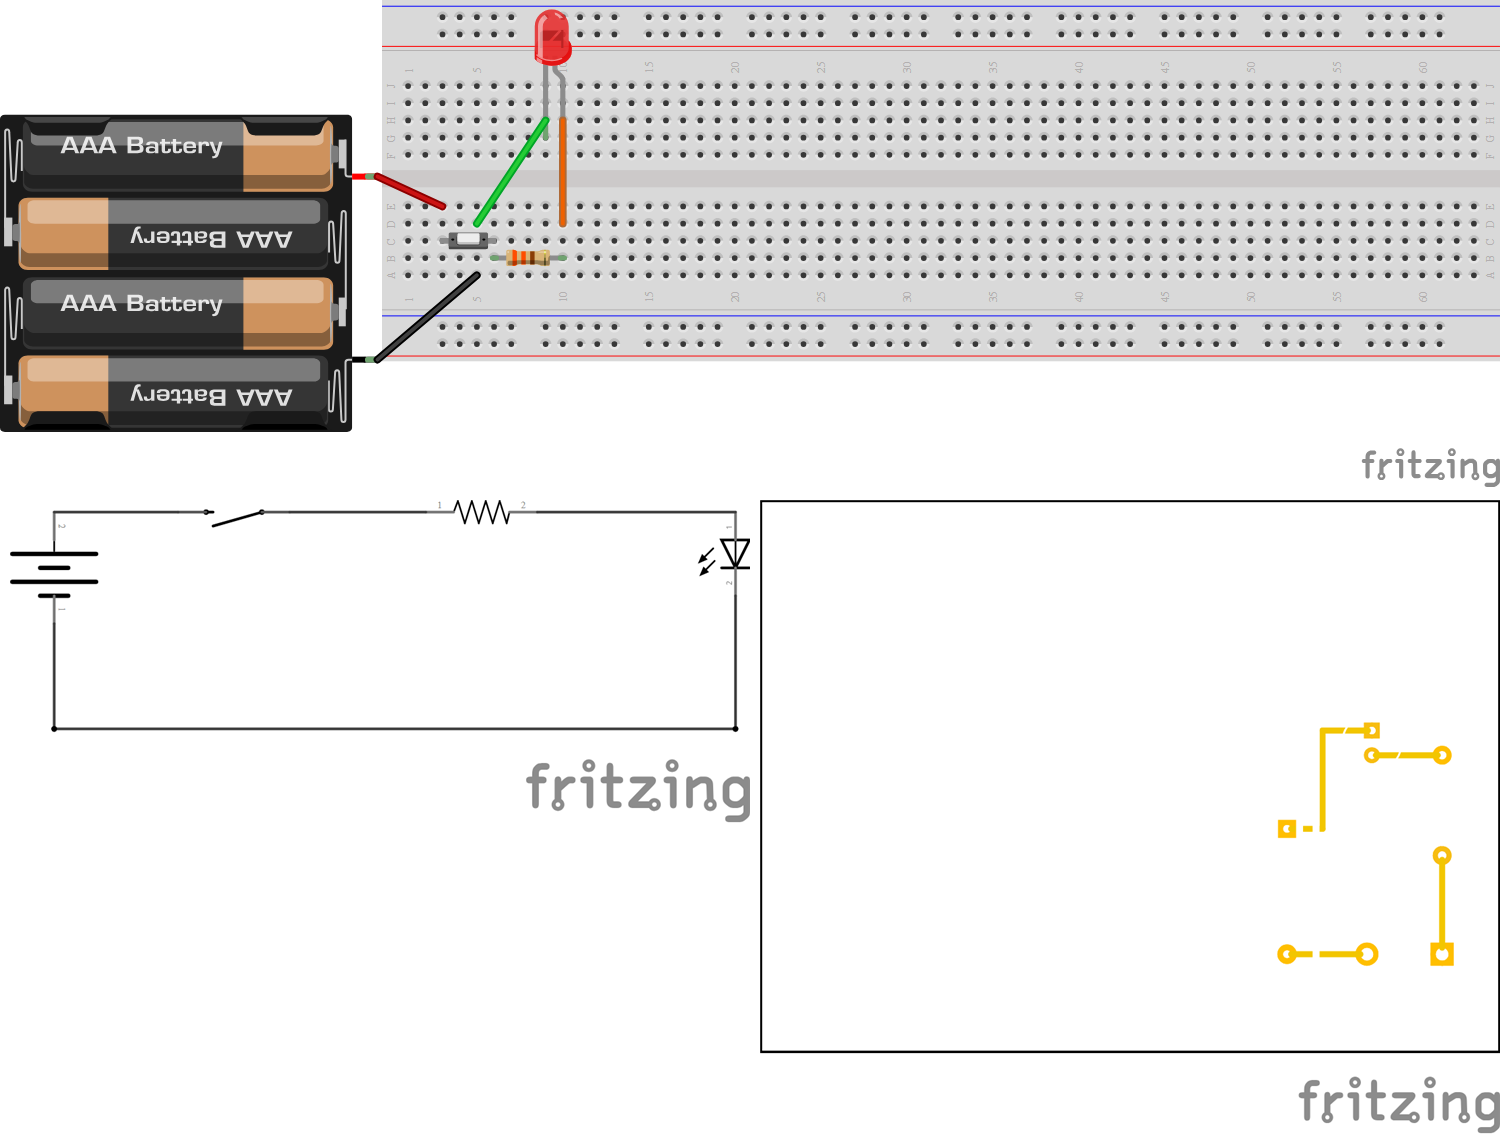
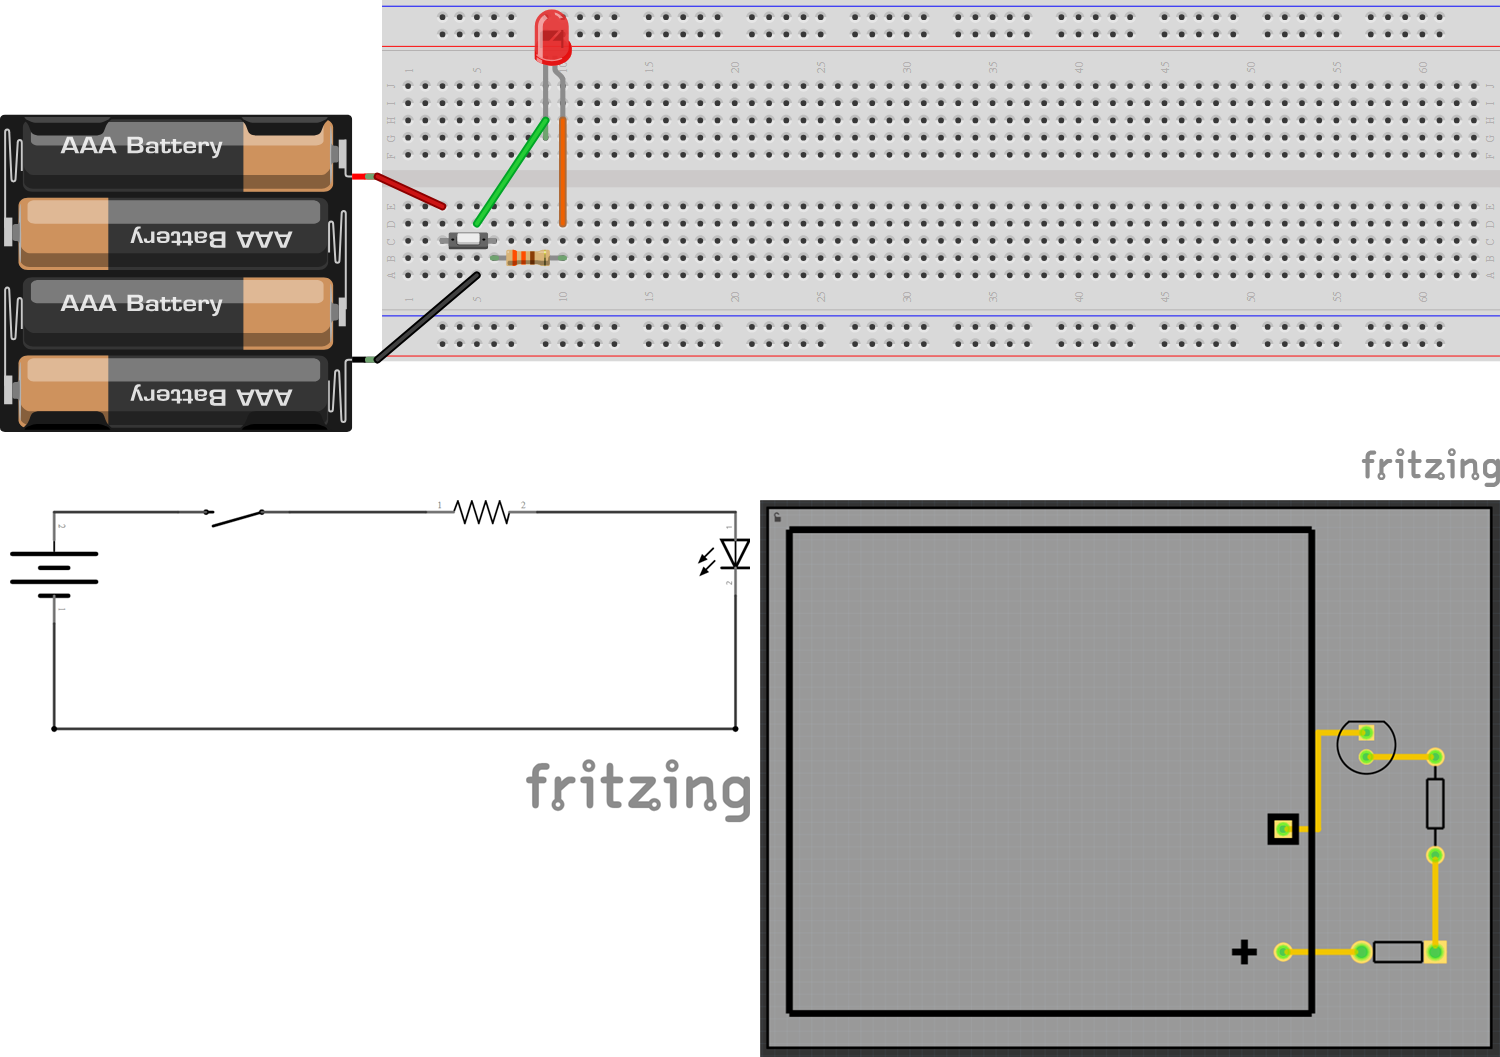
Show the PCB silkscreen in the example pictures
The SVG export holds copper only. The PCB pictures now come from the Fritzing
window, so the part outlines and the battery holder outline are visible.

diff --git a/skills/fritzing/SKILL.md b/skills/fritzing/SKILL.md
@@ -57,7 +57,7 @@ description: Build, check, and edit Fritzing sketches (.fzz and .fz files) with 
 ### Check
 
 - Run `python scripts\fritzing_export.py "C:\Program Files\Fritzing\Fritzing.exe" <sketch.fzz> <new empty folder>`. Read each line it prints. It writes `<name>_breadboard.svg`, `<name>_schematic.svg`, and `<name>_pcb.svg`.
-- Look at the SVG files as pictures. One way on Windows: write an HTML page that holds an `<img>` of the SVG file, then run `msedge.exe --headless --window-size=W,H --screenshot=<out.png> file:///<page.html>`. Read the PNG. The export shows copper only, not the silkscreen outlines.
+- Look at the SVG files as pictures. One way on Windows: write an HTML page that holds an `<img>` of the SVG file, then run `msedge.exe --headless --window-size=W,H --screenshot=<out.png> file:///<page.html>`. Read the PNG. The export shows copper only, not the silkscreen outlines. For a PCB picture with the outlines, screenshot the PCB view in the Fritzing window with `scripts\fritzing_gui_shot.ps1` and crop the board (the PCB pictures in `examples/` were made this way).
 - For each part, check three things: it is drawn, its pins sit on the holes, and each wire end touches a pin.
 - The SVG export does not draw ratsnest lines (the thin lines that show unrouted connections). So it cannot prove that Fritzing registered the connections. Open the sketch in the Fritzing window.
 - Windows, in the real Fritzing window:

diff --git a/README.md b/README.md
@@ -4,7 +4,7 @@ This repository holds a skill that teaches Claude Code to build Fritzing sketche
 
 ![Breadboard, schematic and PCB view of a battery, push button, resistor and LED](skills/fritzing/examples/battery_led_three_views.png)
 
-The picture shows the example in this repository. The circuit is a 4 x AAA battery holder, a push button, a 330 ohm resistor, and a red LED in a loop. The breadboard view is on top. The schematic view is bottom left and the PCB view is bottom right. The PCB picture shows copper only: the pads and the traces, not the outline of the battery holder.
+The picture shows the example in this repository. The circuit is a 4 x AAA battery holder, a push button, a 330 ohm resistor, and a red LED in a loop. The breadboard view is on top. The schematic view is bottom left and the PCB view is bottom right. The PCB picture is a screenshot of the Fritzing window. It shows the silkscreen outlines of the parts, and the green dots mark connected pins.
 
 ## What you need
 
